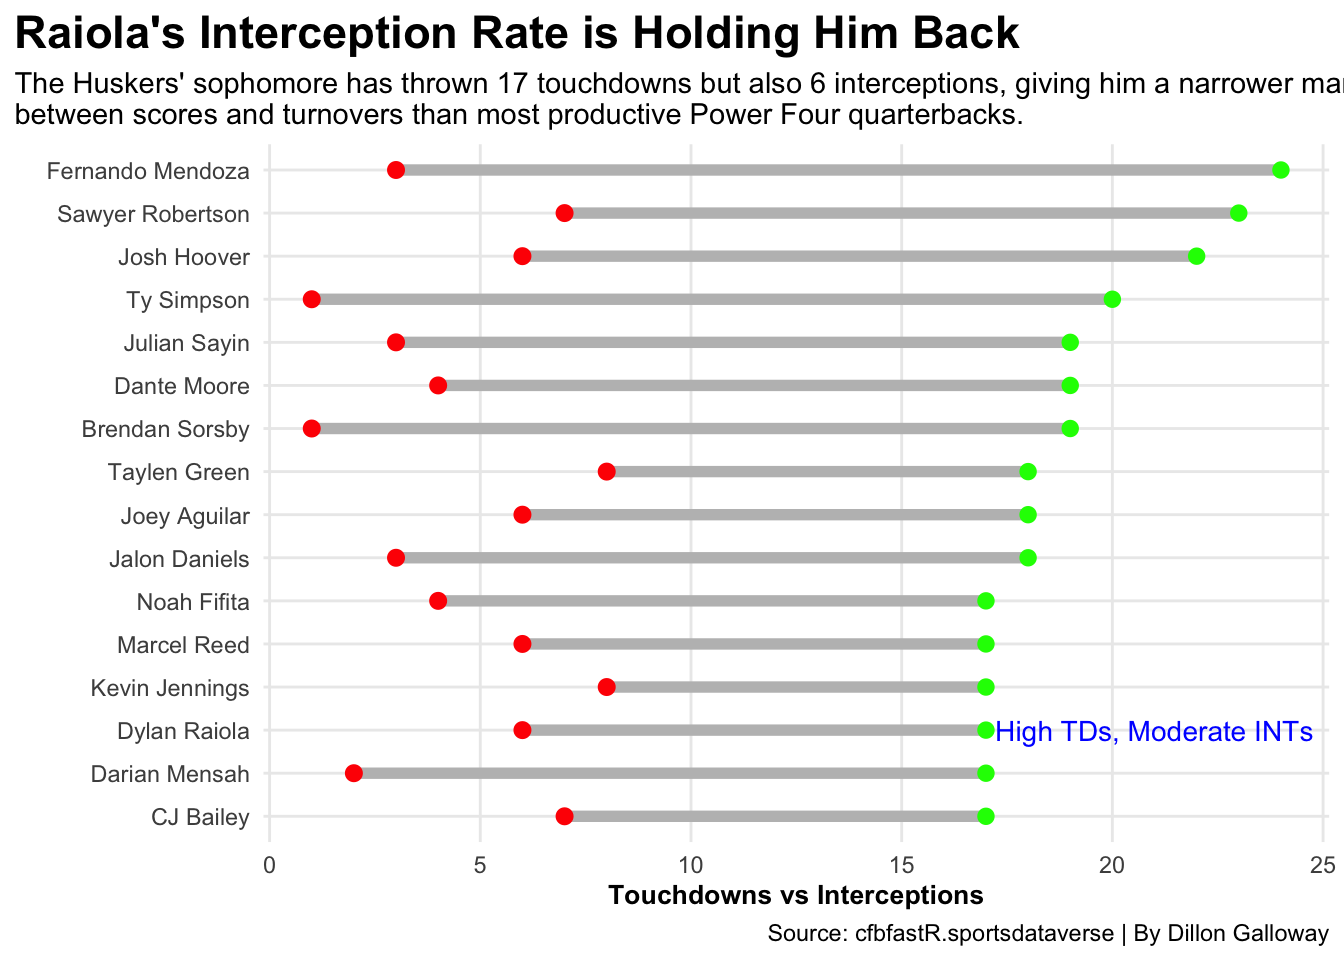
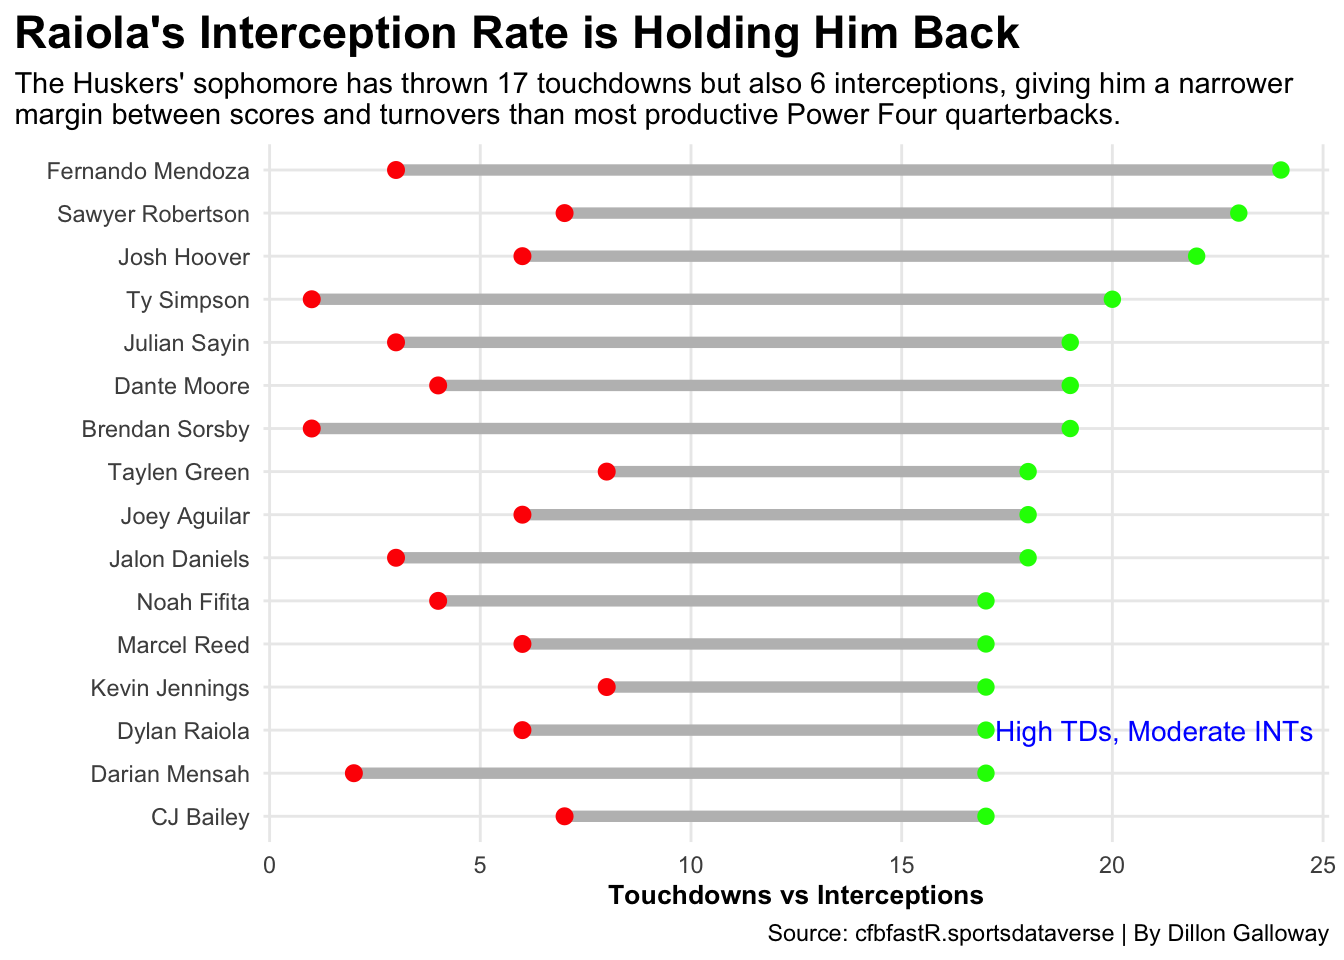
Of course one last issue

Changed region(s): [[0.0, 0.0938, 0.8125, 0.1562], [0.9688, 0.0625, 1.0, 0.0938]]

diff --git a/posts/dylan-raiola-work-in-progress/index.html b/posts/dylan-raiola-work-in-progress/index.html
@@ -356,7 +356,7 @@ pre > code.sourceCode > span > a:first-child::before { text-decoration: underlin
 <span id="cb3-17"><a href="#cb3-17" aria-hidden="true" tabindex="-1"></a>    <span class="fu">labs</span>(</span>
 <span id="cb3-18"><a href="#cb3-18" aria-hidden="true" tabindex="-1"></a>    <span class="at">x=</span><span class="st">"Touchdowns vs Interceptions"</span>, <span class="at">y =</span><span class="st">""</span>,</span>
 <span id="cb3-19"><a href="#cb3-19" aria-hidden="true" tabindex="-1"></a>    <span class="at">title=</span><span class="st">"Raiola's Interception Rate is Holding Him Back"</span>, </span>
-<span id="cb3-20"><a href="#cb3-20" aria-hidden="true" tabindex="-1"></a>    <span class="at">subtitle=</span><span class="st">"The Huskers' sophomore has thrown 17 touchdowns but also 6 interceptions, giving him a narrower margin</span><span class="sc">\n</span><span class="st">between scores and turnovers than most productive Power Four quarterbacks."</span>, </span>
+<span id="cb3-20"><a href="#cb3-20" aria-hidden="true" tabindex="-1"></a>    <span class="at">subtitle=</span><span class="st">"The Huskers' sophomore has thrown 17 touchdowns but also 6 interceptions, giving him a narrower </span><span class="sc">\n</span><span class="st">margin between scores and turnovers than most productive Power Four quarterbacks."</span>, </span>
 <span id="cb3-21"><a href="#cb3-21" aria-hidden="true" tabindex="-1"></a>    <span class="at">caption=</span><span class="st">"Source: cfbfastR.sportsdataverse | By Dillon Galloway"</span>) <span class="sc">+</span> </span>
 <span id="cb3-22"><a href="#cb3-22" aria-hidden="true" tabindex="-1"></a>  <span class="fu">theme_minimal</span>() <span class="sc">+</span> </span>
 <span id="cb3-23"><a href="#cb3-23" aria-hidden="true" tabindex="-1"></a>  <span class="fu">theme</span>(</span>
@@ -432,23 +432,23 @@ pre > code.sourceCode > span > a:first-child::before { text-decoration: underlin
 <span id="cb4-49"><a href="#cb4-49" aria-hidden="true" tabindex="-1"></a>  )</span></code></pre></div><button title="Copy to Clipboard" class="code-copy-button"><i class="bi"></i></button></div>
 </details>
 <div class="cell-output-display">
-<div id="iveaviwrlu" style="padding-left:0px;padding-right:0px;padding-top:10px;padding-bottom:10px;overflow-x:auto;overflow-y:auto;width:auto;height:auto;">
-<style>#iveaviwrlu table {
+<div id="wuieqyosdl" style="padding-left:0px;padding-right:0px;padding-top:10px;padding-bottom:10px;overflow-x:auto;overflow-y:auto;width:auto;height:auto;">
+<style>#wuieqyosdl table {
   font-family: system-ui, 'Segoe UI', Roboto, Helvetica, Arial, sans-serif, 'Apple Color Emoji', 'Segoe UI Emoji', 'Segoe UI Symbol', 'Noto Color Emoji';
   -webkit-font-smoothing: antialiased;
   -moz-osx-font-smoothing: grayscale;
 }
 
-#iveaviwrlu thead, #iveaviwrlu tbody, #iveaviwrlu tfoot, #iveaviwrlu tr, #iveaviwrlu td, #iveaviwrlu th {
+#wuieqyosdl thead, #wuieqyosdl tbody, #wuieqyosdl tfoot, #wuieqyosdl tr, #wuieqyosdl td, #wuieqyosdl th {
   border-style: none;
 }
 
-#iveaviwrlu p {
+#wuieqyosdl p {
   margin: 0;
   padding: 0;
 }
 
-#iveaviwrlu .gt_table {
+#wuieqyosdl .gt_table {
   display: table;
   border-collapse: collapse;
   line-height: normal;
@@ -474,12 +474,12 @@ pre > code.sourceCode > span > a:first-child::before { text-decoration: underlin
   border-left-color: #D3D3D3;
 }
 
-#iveaviwrlu .gt_caption {
+#wuieqyosdl .gt_caption {
   padding-top: 4px;
   padding-bottom: 4px;
 }
 
-#iveaviwrlu .gt_title {
+#wuieqyosdl .gt_title {
   color: #333333;
   font-size: 125%;
   font-weight: initial;
@@ -491,7 +491,7 @@ pre > code.sourceCode > span > a:first-child::before { text-decoration: underlin
   border-bottom-width: 0;
 }
 
-#iveaviwrlu .gt_subtitle {
+#wuieqyosdl .gt_subtitle {
   color: #333333;
   font-size: 85%;
   font-weight: initial;
@@ -503,7 +503,7 @@ pre > code.sourceCode > span > a:first-child::before { text-decoration: underlin
   border-top-width: 0;
 }
 
-#iveaviwrlu .gt_heading {
+#wuieqyosdl .gt_heading {
   background-color: #FFFFFF;
   text-align: center;
   border-bottom-color: #FFFFFF;
@@ -515,13 +515,13 @@ pre > code.sourceCode > span > a:first-child::before { text-decoration: underlin
   border-right-color: #D3D3D3;
 }
 
-#iveaviwrlu .gt_bottom_border {
+#wuieqyosdl .gt_bottom_border {
   border-bottom-style: solid;
   border-bottom-width: 2px;
   border-bottom-color: #D3D3D3;
 }
 
-#iveaviwrlu .gt_col_headings {
+#wuieqyosdl .gt_col_headings {
   border-top-style: solid;
   border-top-width: 2px;
   border-top-color: #D3D3D3;
@@ -536,7 +536,7 @@ pre > code.sourceCode > span > a:first-child::before { text-decoration: underlin
   border-right-color: #D3D3D3;
 }
 
-#iveaviwrlu .gt_col_heading {
+#wuieqyosdl .gt_col_heading {
   color: #333333;
   background-color: #FFFFFF;
   font-size: 100%;
@@ -556,7 +556,7 @@ pre > code.sourceCode > span > a:first-child::before { text-decoration: underlin
   overflow-x: hidden;
 }
 
-#iveaviwrlu .gt_column_spanner_outer {
+#wuieqyosdl .gt_column_spanner_outer {
   color: #333333;
   background-color: #FFFFFF;
   font-size: 100%;
@@ -568,15 +568,15 @@ pre > code.sourceCode > span > a:first-child::before { text-decoration: underlin
   padding-right: 4px;
 }
 
-#iveaviwrlu .gt_column_spanner_outer:first-child {
+#wuieqyosdl .gt_column_spanner_outer:first-child {
   padding-left: 0;
 }
 
-#iveaviwrlu .gt_column_spanner_outer:last-child {
+#wuieqyosdl .gt_column_spanner_outer:last-child {
   padding-right: 0;
 }
 
-#iveaviwrlu .gt_column_spanner {
+#wuieqyosdl .gt_column_spanner {
   border-bottom-style: solid;
   border-bottom-width: 2px;
   border-bottom-color: #D3D3D3;
@@ -588,11 +588,11 @@ pre > code.sourceCode > span > a:first-child::before { text-decoration: underlin
   width: 100%;
 }
 
-#iveaviwrlu .gt_spanner_row {
+#wuieqyosdl .gt_spanner_row {
   border-bottom-style: hidden;
 }
 
-#iveaviwrlu .gt_group_heading {
+#wuieqyosdl .gt_group_heading {
   padding-top: 8px;
   padding-bottom: 8px;
   padding-left: 5px;
@@ -618,7 +618,7 @@ pre > code.sourceCode > span > a:first-child::before { text-decoration: underlin
   text-align: left;
 }
 
-#iveaviwrlu .gt_empty_group_heading {
+#wuieqyosdl .gt_empty_group_heading {
   padding: 0.5px;
   color: #333333;
   background-color: #FFFFFF;
@@ -633,15 +633,15 @@ pre > code.sourceCode > span > a:first-child::before { text-decoration: underlin
   vertical-align: middle;
 }
 
-#iveaviwrlu .gt_from_md > :first-child {
+#wuieqyosdl .gt_from_md > :first-child {
   margin-top: 0;
 }
 
-#iveaviwrlu .gt_from_md > :last-child {
+#wuieqyosdl .gt_from_md > :last-child {
   margin-bottom: 0;
 }
 
-#iveaviwrlu .gt_row {
+#wuieqyosdl .gt_row {
   padding-top: 8px;
   padding-bottom: 8px;
   padding-left: 5px;
@@ -660,7 +660,7 @@ pre > code.sourceCode > span > a:first-child::before { text-decoration: underlin
   overflow-x: hidden;
 }
 
-#iveaviwrlu .gt_stub {
+#wuieqyosdl .gt_stub {
   color: #333333;
   background-color: #FFFFFF;
   font-size: 100%;
@@ -673,7 +673,7 @@ pre > code.sourceCode > span > a:first-child::before { text-decoration: underlin
   padding-right: 5px;
 }
 
-#iveaviwrlu .gt_stub_row_group {
+#wuieqyosdl .gt_stub_row_group {
   color: #333333;
   background-color: #FFFFFF;
   font-size: 100%;
@@ -687,15 +687,15 @@ pre > code.sourceCode > span > a:first-child::before { text-decoration: underlin
   vertical-align: top;
 }
 
-#iveaviwrlu .gt_row_group_first td {
+#wuieqyosdl .gt_row_group_first td {
   border-top-width: 2px;
 }
 
-#iveaviwrlu .gt_row_group_first th {
+#wuieqyosdl .gt_row_group_first th {
   border-top-width: 2px;
 }
 
-#iveaviwrlu .gt_summary_row {
+#wuieqyosdl .gt_summary_row {
   color: #333333;
   background-color: #FFFFFF;
   text-transform: inherit;
@@ -705,16 +705,16 @@ pre > code.sourceCode > span > a:first-child::before { text-decoration: underlin
   padding-right: 5px;
 }
 
-#iveaviwrlu .gt_first_summary_row {
+#wuieqyosdl .gt_first_summary_row {
   border-top-style: solid;
   border-top-color: #D3D3D3;
 }
 
-#iveaviwrlu .gt_first_summary_row.thick {
+#wuieqyosdl .gt_first_summary_row.thick {
   border-top-width: 2px;
 }
 
-#iveaviwrlu .gt_last_summary_row {
+#wuieqyosdl .gt_last_summary_row {
   padding-top: 8px;
   padding-bottom: 8px;
   padding-left: 5px;
@@ -724,7 +724,7 @@ pre > code.sourceCode > span > a:first-child::before { text-decoration: underlin
   border-bottom-color: #D3D3D3;
 }
 
-#iveaviwrlu .gt_grand_summary_row {
+#wuieqyosdl .gt_grand_summary_row {
   color: #333333;
   background-color: #FFFFFF;
   text-transform: inherit;
@@ -734,7 +734,7 @@ pre > code.sourceCode > span > a:first-child::before { text-decoration: underlin
   padding-right: 5px;
 }
 
-#iveaviwrlu .gt_first_grand_summary_row {
+#wuieqyosdl .gt_first_grand_summary_row {
   padding-top: 8px;
   padding-bottom: 8px;
   padding-left: 5px;
@@ -744,7 +744,7 @@ pre > code.sourceCode > span > a:first-child::before { text-decoration: underlin
   border-top-color: #D3D3D3;
 }
 
-#iveaviwrlu .gt_last_grand_summary_row_top {
+#wuieqyosdl .gt_last_grand_summary_row_top {
   padding-top: 8px;
   padding-bottom: 8px;
   padding-left: 5px;
@@ -754,11 +754,11 @@ pre > code.sourceCode > span > a:first-child::before { text-decoration: underlin
   border-bottom-color: #D3D3D3;
 }
 
-#iveaviwrlu .gt_striped {
+#wuieqyosdl .gt_striped {
   background-color: rgba(128, 128, 128, 0.05);
 }
 
-#iveaviwrlu .gt_table_body {
+#wuieqyosdl .gt_table_body {
   border-top-style: solid;
   border-top-width: 2px;
   border-top-color: #D3D3D3;
@@ -767,7 +767,7 @@ pre > code.sourceCode > span > a:first-child::before { text-decoration: underlin
   border-bottom-color: #D3D3D3;
 }
 
-#iveaviwrlu .gt_footnotes {
+#wuieqyosdl .gt_footnotes {
   color: #333333;
   background-color: #FFFFFF;
   border-bottom-style: none;
@@ -781,7 +781,7 @@ pre > code.sourceCode > span > a:first-child::before { text-decoration: underlin
   border-right-color: #D3D3D3;
 }
 
-#iveaviwrlu .gt_footnote {
+#wuieqyosdl .gt_footnote {
   margin: 0px;
   font-size: 90%;
   padding-top: 4px;
@@ -790,7 +790,7 @@ pre > code.sourceCode > span > a:first-child::before { text-decoration: underlin
   padding-right: 5px;
 }
 
-#iveaviwrlu .gt_sourcenotes {
+#wuieqyosdl .gt_sourcenotes {
   color: #333333;
   background-color: #FFFFFF;
   border-bottom-style: none;
@@ -804,7 +804,7 @@ pre > code.sourceCode > span > a:first-child::before { text-decoration: underlin
   border-right-color: #D3D3D3;
 }
 
-#iveaviwrlu .gt_sourcenote {
+#wuieqyosdl .gt_sourcenote {
   font-size: 90%;
   padding-top: 4px;
   padding-bottom: 4px;
@@ -812,72 +812,72 @@ pre > code.sourceCode > span > a:first-child::before { text-decoration: underlin
   padding-right: 5px;
 }
 
-#iveaviwrlu .gt_left {
+#wuieqyosdl .gt_left {
   text-align: left;
 }
 
-#iveaviwrlu .gt_center {
+#wuieqyosdl .gt_center {
   text-align: center;
 }
 
-#iveaviwrlu .gt_right {
+#wuieqyosdl .gt_right {
   text-align: right;
   font-variant-numeric: tabular-nums;
 }
 
-#iveaviwrlu .gt_font_normal {
+#wuieqyosdl .gt_font_normal {
   font-weight: normal;
 }
 
-#iveaviwrlu .gt_font_bold {
+#wuieqyosdl .gt_font_bold {
   font-weight: bold;
 }
 
-#iveaviwrlu .gt_font_italic {
+#wuieqyosdl .gt_font_italic {
   font-style: italic;
 }
 
-#iveaviwrlu .gt_super {
+#wuieqyosdl .gt_super {
   font-size: 65%;
 }
 
-#iveaviwrlu .gt_footnote_marks {
+#wuieqyosdl .gt_footnote_marks {
   font-size: 75%;
   vertical-align: 0.4em;
   position: initial;
 }
 
-#iveaviwrlu .gt_asterisk {
+#wuieqyosdl .gt_asterisk {
   font-size: 100%;
   vertical-align: 0;
 }
 
-#iveaviwrlu .gt_indent_1 {
+#wuieqyosdl .gt_indent_1 {
   text-indent: 5px;
 }
 
-#iveaviwrlu .gt_indent_2 {
+#wuieqyosdl .gt_indent_2 {
   text-indent: 10px;
 }
 
-#iveaviwrlu .gt_indent_3 {
+#wuieqyosdl .gt_indent_3 {
   text-indent: 15px;
 }
 
-#iveaviwrlu .gt_indent_4 {
+#wuieqyosdl .gt_indent_4 {
   text-indent: 20px;
 }
 
-#iveaviwrlu .gt_indent_5 {
+#wuieqyosdl .gt_indent_5 {
   text-indent: 25px;
 }
 
-#iveaviwrlu .katex-display {
+#wuieqyosdl .katex-display {
   display: inline-flex !important;
   margin-bottom: 0.75em !important;
 }
 
-#iveaviwrlu div.Reactable > div.rt-table > div.rt-thead > div.rt-tr.rt-tr-group-header > div.rt-th-group:after {
+#wuieqyosdl div.Reactable > div.rt-table > div.rt-thead > div.rt-tr.rt-tr-group-header > div.rt-th-group:after {
   height: 0px !important;
 }
 </style>

diff --git a/index.html b/index.html
@@ -209,7 +209,7 @@ window.Quarto = {
 
 <div class="quarto-listing quarto-listing-container-default" id="listing-listing">
 <div class="list quarto-listing-default">
-<div class="quarto-post image-right" data-index="0" data-categories="Zm9vdGJhbGwlMkNzdGF0cyUyQ2NvbGxlZ2U=" data-listing-date-sort="1763359200000" data-listing-file-modified-sort="1763311771096" data-listing-date-modified-sort="NaN" data-listing-reading-time-sort="9" data-listing-word-count-sort="1632">
+<div class="quarto-post image-right" data-index="0" data-categories="Zm9vdGJhbGwlMkNzdGF0cyUyQ2NvbGxlZ2U=" data-listing-date-sort="1763359200000" data-listing-file-modified-sort="1763350927301" data-listing-date-modified-sort="NaN" data-listing-reading-time-sort="9" data-listing-word-count-sort="1633">
 <div class="thumbnail"><a href="./posts/dylan-raiola-work-in-progress/index.html" class="no-external">
 
 <img loading="lazy" src="./posts/dylan-raiola-work-in-progress/post_one_image.png" class="thumbnail-image">
